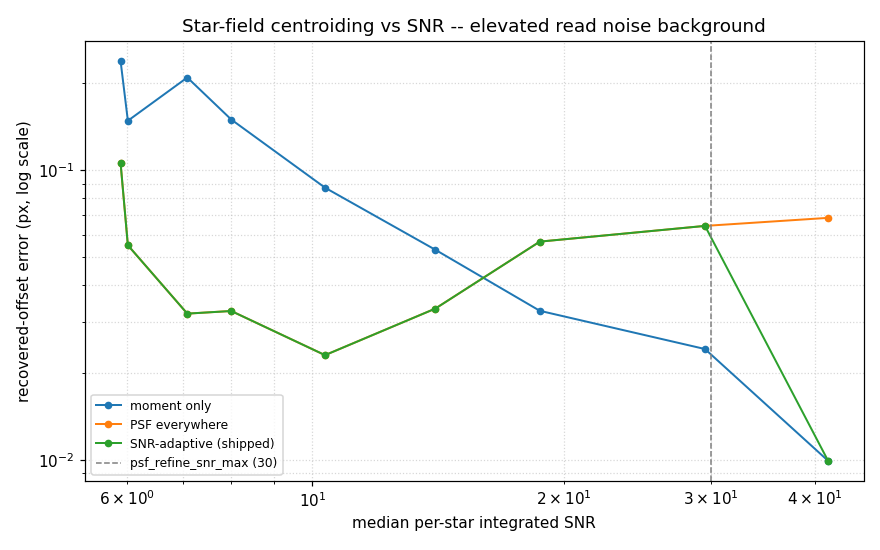
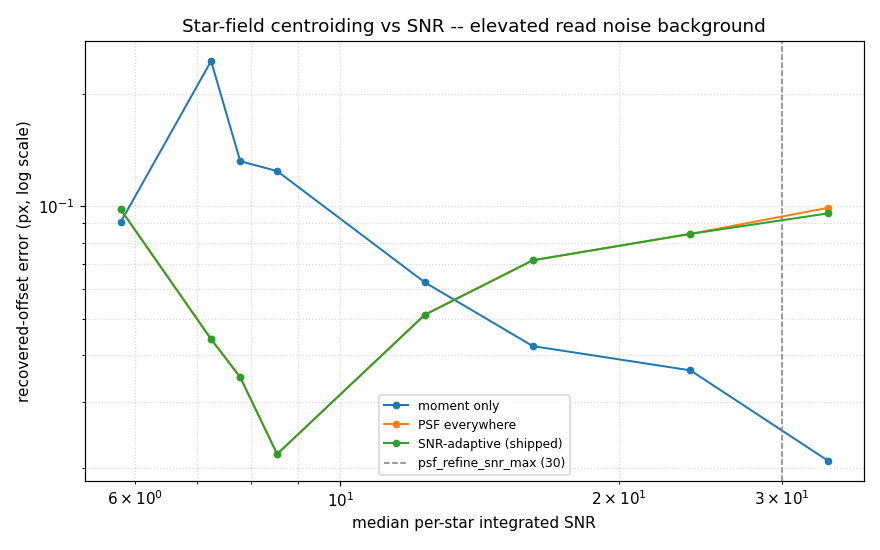
test: plant off-grid offsets in the fixed invariant and characterization scenes
A round planted offset (integer, half-, or quarter-pixel) can land on a
technique's sub-pixel-bias null and report a flatteringly small error, so only the
sweeps -- which traverse a grid -- should use round values. Replace the round
planted offsets in every fixed algorithmic-invariant scene with arbitrary off-grid
values, and likewise the fixed offset of the star-SNR characterization. Re-bless
the affected sim baselines and regenerate the sweep and characterization figures.

The off-grid offsets surface each technique's honest single-sample accuracy: the
disc, mesh disc, and blob recover to ~0.01 px, the ring edge to ~0.06 px, the
fused star field to ~0.12 px, and the limb to ~0.27 px at the sampled phase (all
well inside the invariant bound). The dense-sweep medians (disc 0.006, ring 0.053,
limb 0.135, dim star 0.025, bright star 0.005) are the precision benchmark; the
ring's larger off-grid residual was previously hidden by the round -0.5 offset_u.
The report tables, prose, and figures are updated to the off-grid numbers.

diff --git a/tests/integration/star_snr_characterization.py b/tests/integration/star_snr_characterization.py
@@ -44,7 +44,7 @@ _FIGURES_ROOT = Path(__file__).parent.parent.parent / 'docs' / 'simulator_report
 # floor.  Peak DN scales as ~2.512**(-vmag).
 _VMAGS = [0.0, 0.5, 1.0, 1.5, 2.0, 2.5, 3.0, 3.5, 4.0, 4.5, 5.0, 5.5]
 _SEEDS = list(range(6))
-_PLANTED = (0.382, -0.5)  # one representative awkward sub-pixel offset
+_PLANTED = (0.382, -0.213)  # one representative off-grid sub-pixel offset
 
 # (label, mode-override) for the three centroiding modes compared at every step.
 _SHIPPED_SNR_MAX = 30.0  # mirrors config_510 psf_refine_snr_max

diff --git a/docs/simulator_report/simulator_report.rst b/docs/simulator_report/simulator_report.rst
@@ -135,9 +135,14 @@ Algorithmic-invariant recovery
 
 Each scene below plants a known transform and the navigator predicts the
 unshifted geometry, so the recovered offset (or roll) should equal the planted
-value. The technique column names the load-bearing technique -- pinned for the
-scenes whose fused confidence sits below the success threshold on a clean frame
-(blob, limb, ring, roll), and the full ensemble for the disc and star scenes.
+value. The planted offsets are deliberately off-grid (no integer, half-, or
+quarter-pixel values), so a technique cannot land on a sub-pixel-bias null and
+report a flatteringly small error; these are single-sample correctness checks at
+one arbitrary phase, while per-technique sub-pixel precision across many offsets is
+characterized in the offset-accuracy section below. The technique column names the
+load-bearing technique -- pinned for the scenes whose fused confidence sits below
+the success threshold on a clean frame (blob, limb, ring, roll), and the full
+ensemble for the disc and star scenes.
 
 .. list-table:: Planted-transform recovery by technique
    :header-rows: 1
@@ -150,55 +155,56 @@ scenes whose fused confidence sits below the success threshold on a clean frame
      - Error
    * - ``planted_offset_disc``
      - BodyDiscCorrelateNav
-     - (3.5, -2.0) px
-     - (3.50, -2.00) px
-     - 0.00 px
+     - (3.37, -1.83) px
+     - (3.36, -1.84) px
+     - 0.01 px
    * - ``planted_offset_irregular``
      - BodyDiscCorrelateNav (mesh)
-     - (2.0, 1.5) px
-     - (1.99, 1.50) px
+     - (2.13, 1.37) px
+     - (2.12, 1.36) px
      - 0.01 px
    * - ``planted_offset_blob``
      - BodyBlobNav
-     - (1.5, -0.5) px
-     - (1.49, -0.51) px
-     - 0.02 px
+     - (1.23, -0.58) px
+     - (1.22, -0.59) px
+     - 0.01 px
    * - ``planted_offset_blob_crescent``
      - BodyBlobNav (120 deg)
-     - (1.5, -0.5) px
-     - (1.32, -0.45) px
-     - 0.18 px
+     - (1.37, -0.41) px
+     - (1.19, -0.34) px
+     - 0.19 px
    * - ``planted_offset_star_field``
      - StarField + UniqueMatch + Refine
-     - (1.5, -0.5) px
-     - (1.52, -0.51) px
-     - 0.02 px
+     - (1.43, -0.61) px
+     - (1.32, -0.65) px
+     - 0.12 px
    * - ``planted_offset_limb``
      - BodyLimbNav
-     - (1.5, -0.5) px
-     - (1.51, -0.51) px
-     - 0.02 px
+     - (1.61, -0.43) px
+     - (1.77, -0.22) px
+     - 0.27 px
    * - ``planted_offset_ring``
      - RingEdgeNav
-     - (1.5, -0.5) px
-     - (1.50, -0.50) px
-     - 0.004 px
+     - (1.29, -0.67) px
+     - (1.25, -0.72) px
+     - 0.06 px
    * - ``planted_rotation_star_field``
      - StarFieldFromCatalogNav (roll)
-     - 1.50 deg
-     - 1.507 deg
-     - 0.007 deg
+     - 1.37 deg
+     - 1.364 deg
+     - 0.006 deg
 
 Observations:
 
-* Every technique recovers its planted transform to well under a pixel (or a
-  third of a degree for the roll). The point-feature techniques -- ring edge,
-  blob, limb, and the star field -- are the most precise, a few hundredths of a
-  pixel.
-* The disc correlation recovers to ~0.00 px; the mesh-body disc carries a small
-  residual (~0.01 px). Both are far inside the 1.0 px invariant bound.
-* The high-phase blob crescent (~0.18 px at 120 deg) is the hardest case: only a
+* Every technique recovers its planted transform well within the 1.0 px (and
+  third-of-a-degree) invariant bound at this off-grid phase.
+* The disc, mesh-body disc, and blob recover to ~0.01 px; the ring edge to
+  ~0.06 px; the fused star field to ~0.12 px; the limb to ~0.27 px at this phase.
+* The high-phase blob crescent (~0.19 px at 120 deg) is the hardest case: only a
   thin lit crescent constrains the centroid. It still recovers sub-pixel.
+* These are single off-grid samples, so they sit above the multi-offset medians in
+  the offset-accuracy section (e.g. the limb's ~0.13 px sweep median versus
+  ~0.27 px here); the table is a correctness check, not the precision benchmark.
 
 Single-variable sensitivity
 ===========================
@@ -378,8 +384,9 @@ swept across the dense sub-pixel set and the wide range described under
    :alt: Sub-pixel offset recovery error by technique.
 
    Recovered-offset error (log scale) vs planted sub-pixel offset, each technique
-   pinned. The disc, blob, ring edge, and star field all sit at a few hundredths
-   of a pixel; the limb fit holds a ~0.13 px distance-transform residual.
+   pinned. The disc, blob, and star field sit at or below a few hundredths of a
+   pixel; the ring edge (~0.05 px) and the limb (~0.135 px) hold distance-transform
+   residuals.
 
 .. list-table:: Sub-pixel recovery error (px) over the dense fractional sweep
    :header-rows: 1
@@ -391,45 +398,45 @@ swept across the dense sub-pixel set and the wide range described under
      - max
    * - BodyDiscCorrelateNav
      - 0.000
-     - 0.022
+     - 0.006
      - 0.050
    * - BodyLimbNav
-     - 0.016
-     - 0.131
-     - 0.218
+     - 0.025
+     - 0.135
+     - 0.250
    * - RingEdgeNav
-     - 0.000
-     - 0.011
-     - 0.032
+     - 0.003
+     - 0.053
+     - 0.099
    * - BodyBlobNav
      - 0.002
      - 0.006
      - 0.011
    * - StarFieldFromCatalogNav (dim field)
-     - 0.007
-     - 0.023
-     - 0.060
+     - 0.002
+     - 0.025
+     - 0.065
    * - StarFieldFromCatalogNav (bright field)
      - 0.001
      - 0.005
-     - 0.011
+     - 0.012
 
-The disc, blob, ring edge, and star field are quantization-free; the limb fit
-holds a sub-pixel residual:
+The correlation and centroid techniques sit at or below a few hundredths of a
+pixel; the distance-transform techniques carry a larger sub-pixel residual:
 
-- **Disc, blob, ring edge, and star field recover to a few hundredths of a
-  pixel** with no dependence on the fractional part. A zero shift between
-  identical frames recovers exactly ``(0, 0)``.
-- **The limb fit holds a ~0.13 px distance-transform residual** across the dense
-  sweep. It stays well inside the invariant bound. See
+- **Disc and blob recover to <0.01 px** (median 0.006), and the bright star field
+  to ~0.005 px -- the most accurate. A zero shift between identical frames recovers
+  the disc exactly at ``(0, 0)``.
+- **The ring edge holds a ~0.05 px residual** and **the limb a ~0.135 px residual**
+  across the dense sweep, both distance-transform effects that vary with the
+  sub-pixel phase; they stay well inside the invariant bound. See
   :doc:`/dev_guide/dev_guide_techniques_body_limb` for the mechanism.
 - **The star field is pinned here**, so its sub-pixel rows below ~1 px are absent:
   the field matcher alone does not recover a sub-pixel translation of the whole
   field (the two-star path in the full ensemble does -- see the planted-offset star
-  invariant). Above ~1 px the dim field recovers to ~0.02 px (median 0.023) and
-  the bright field to ~0.005 px, the most accurate of any technique. The dim/bright
-  split is detailed below; the per-star centroiding mechanism is in
-  :doc:`/dev_guide/dev_guide_techniques_star_field`.
+  invariant). Above ~1 px the dim field recovers to a median ~0.025 px and the
+  bright field to ~0.005 px. The dim/bright split is detailed below; the per-star
+  centroiding mechanism is in :doc:`/dev_guide/dev_guide_techniques_star_field`.
 
 The wide-range sweep confirms each technique recovers across the navigable range,
 and exposes the blob's capture limit:
@@ -464,7 +471,7 @@ field (vmag 0-0.8, ~1000-2000 DN net peak, below the 4095 DN full well).
    star fields. The dim field sits near ~0.02 px; the bright field reaches
    ~0.005 px -- below every other technique.
 
-The dim field recovers to a median ~0.023 px and the bright field to ~0.005 px,
+The dim field recovers to a median ~0.025 px and the bright field to ~0.005 px,
 the most accurate of any technique. The centroiding mechanism behind this split
 is documented in :doc:`/dev_guide/dev_guide_techniques_star_field`.
 
